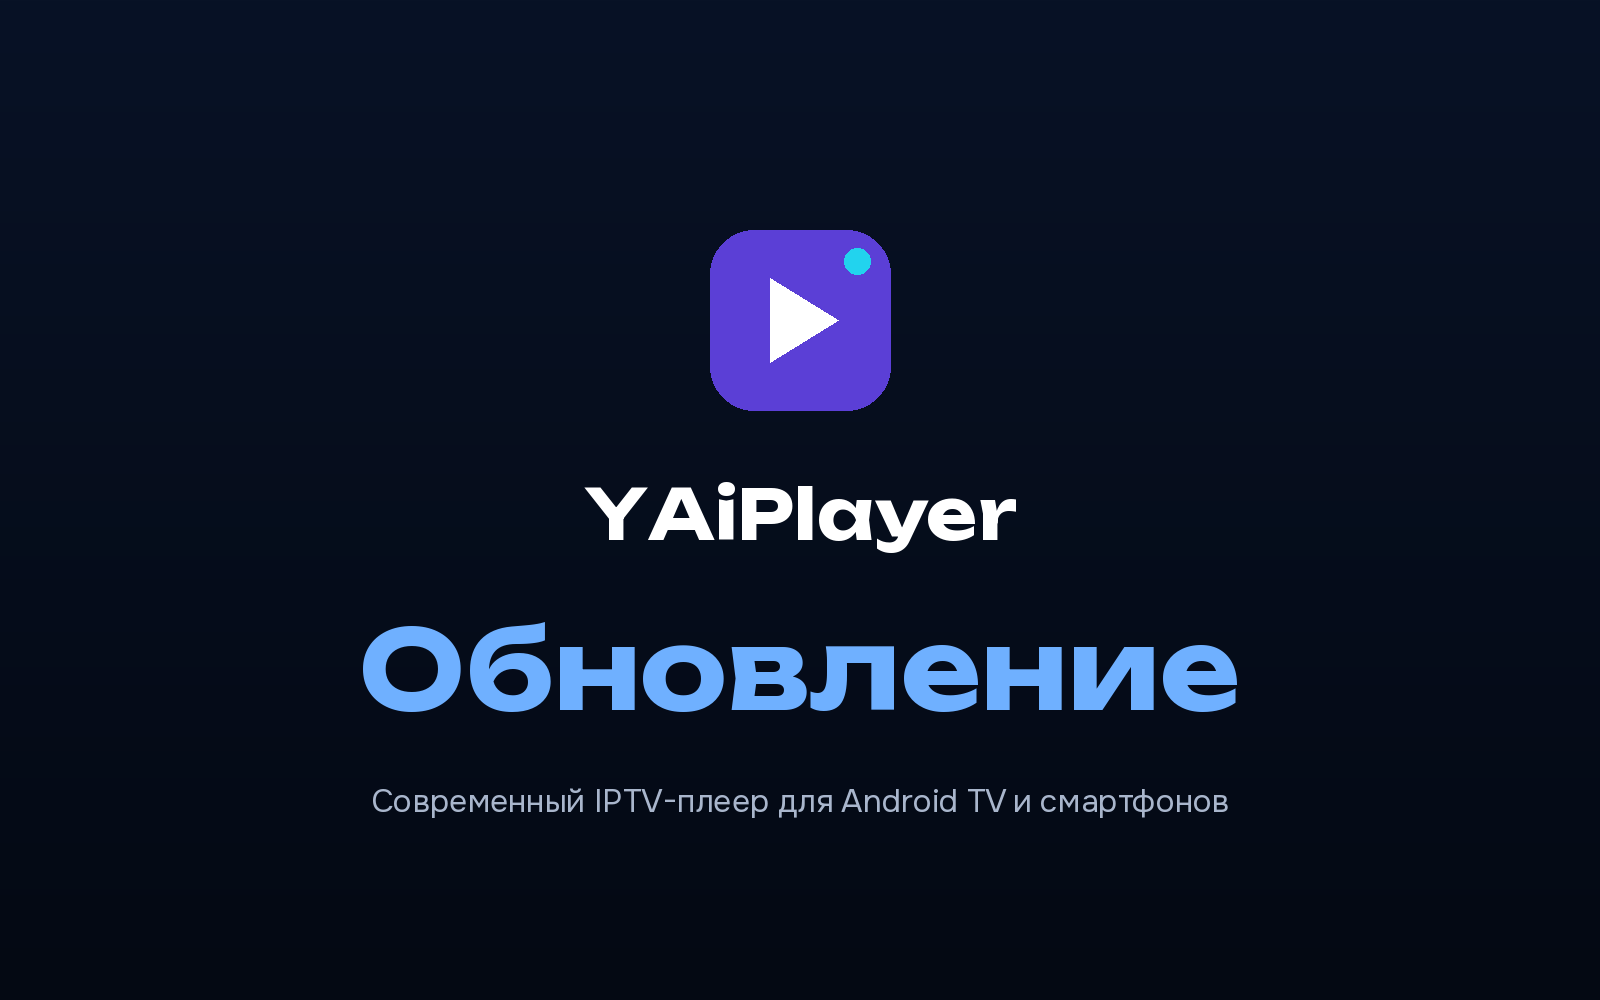
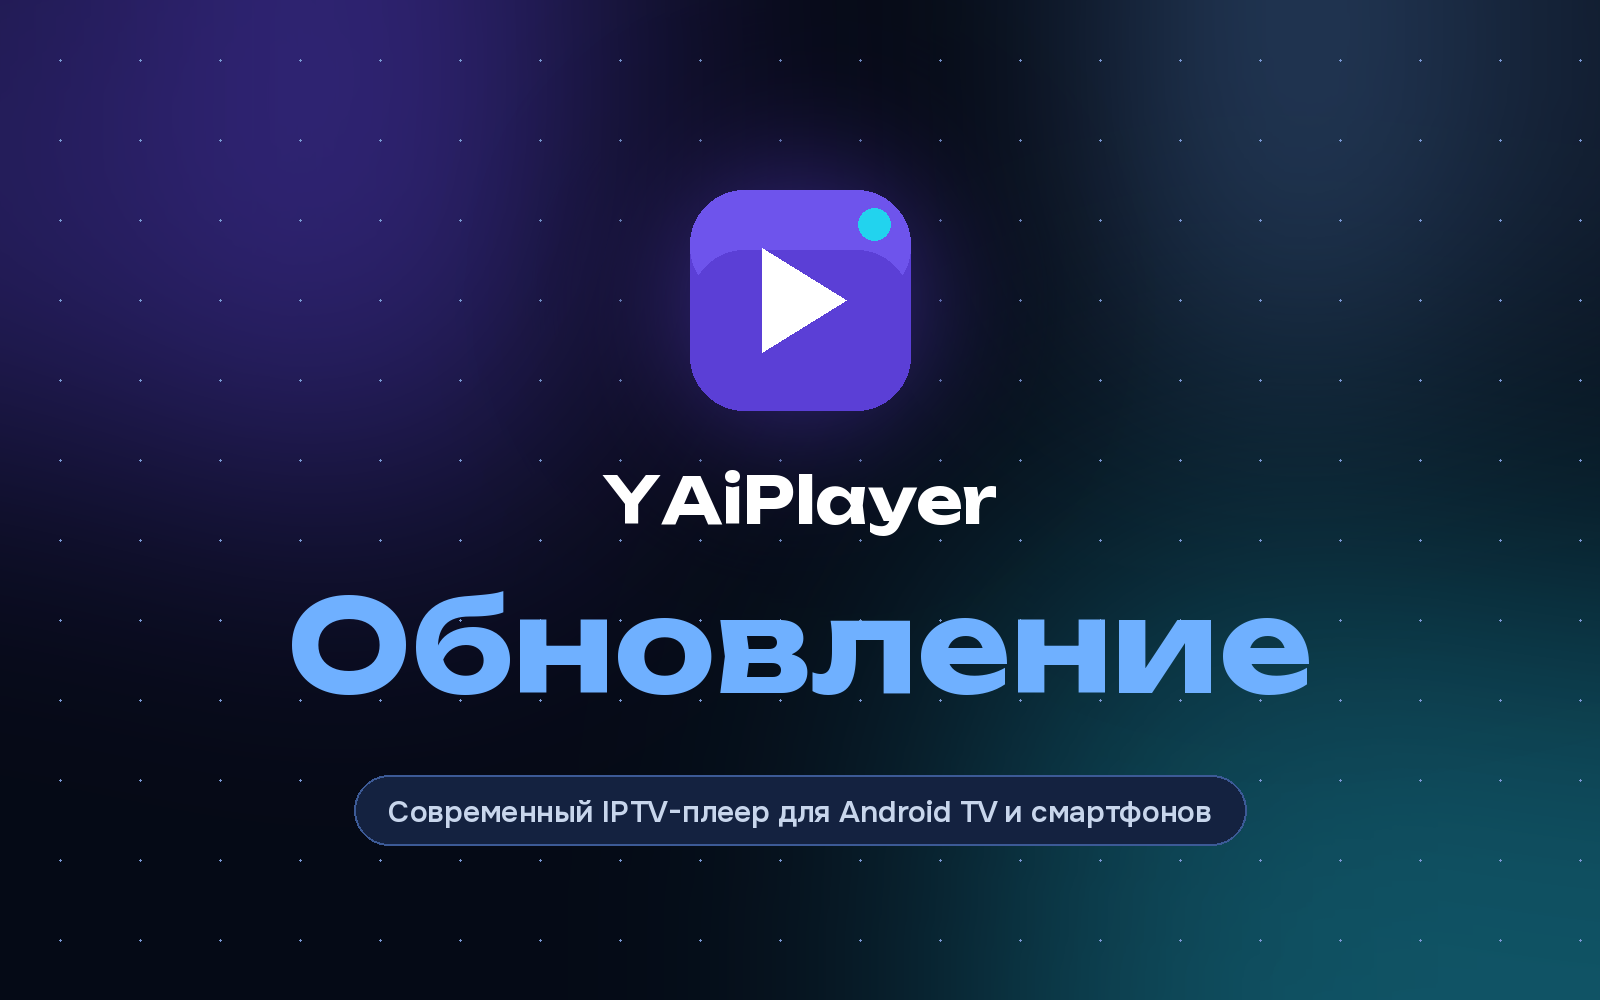
Update post: beta teaser, nicer poster
Claude-Session: https://claude.ai/code/session_0175JTZnTirdTVhjjAYSELQn

diff --git a/docs/announcements/v407-rich.html b/docs/announcements/v407-rich.html
@@ -12,6 +12,8 @@
 <p>Переведены все экраны и настройки. Язык выбирается в «Настройки → Приложение → Язык».</p>
 <h3>🔔 Видно, что нового</h3>
 <p>Когда выходит новая версия, на экране «Кто смотрит?» есть кнопка <b>«Что нового»</b> — можно прочитать, что изменилось, ещё до обновления.</p>
+<h3>🧪 Заглянуть в будущее</h3>
+<p>Пока вы читаете этот пост, в <b>бета-версии</b> уже живут функции, которых нет в релизе. Она ставится <b>рядом с обычным плеером</b> и ничего в нём не меняет — можно пользоваться обоими. Попробуйте первыми и скажите, что получилось: ваши отзывы решают, что попадёт в следующее обновление. Напишите в <a href="https://t.me/YAiPlayer_Chat">чат</a> — подскажем, как получить бету.</p>
 <h3>💡 Что улучшить дальше?</h3>
 <p>Напишите в комментариях или в чат, чего вам не хватает. Мы читаем каждое сообщение 🙌</p>
 <p><b>Актуальная версия: 4.0.7</b></p>

diff --git a/docs/announcements/v407.html b/docs/announcements/v407.html
@@ -7,6 +7,8 @@
 🆕 Сериал с <b>новой серией</b> поднимается наверх списка.
 🔔 На экране «Кто смотрит?» — кнопка <b>«Что нового»</b>.
 
+🧪 <b>Хотите видеть новое раньше всех?</b> Поставьте <b>бета-версию</b> — она ставится рядом с обычным плеером и ничего не ломает. В ней мы тестируем функции, которых ещё нет в релизе, и ваши отзывы решают, что попадёт в обновление. Напишите в <a href="https://t.me/YAiPlayer_Chat">чат</a> — подскажем, как её получить.
+
 💡 Чего не хватает вам? Напишите в комментариях или в чат 🙌
 
 <b>Актуальная версия: 4.0.7</b>
